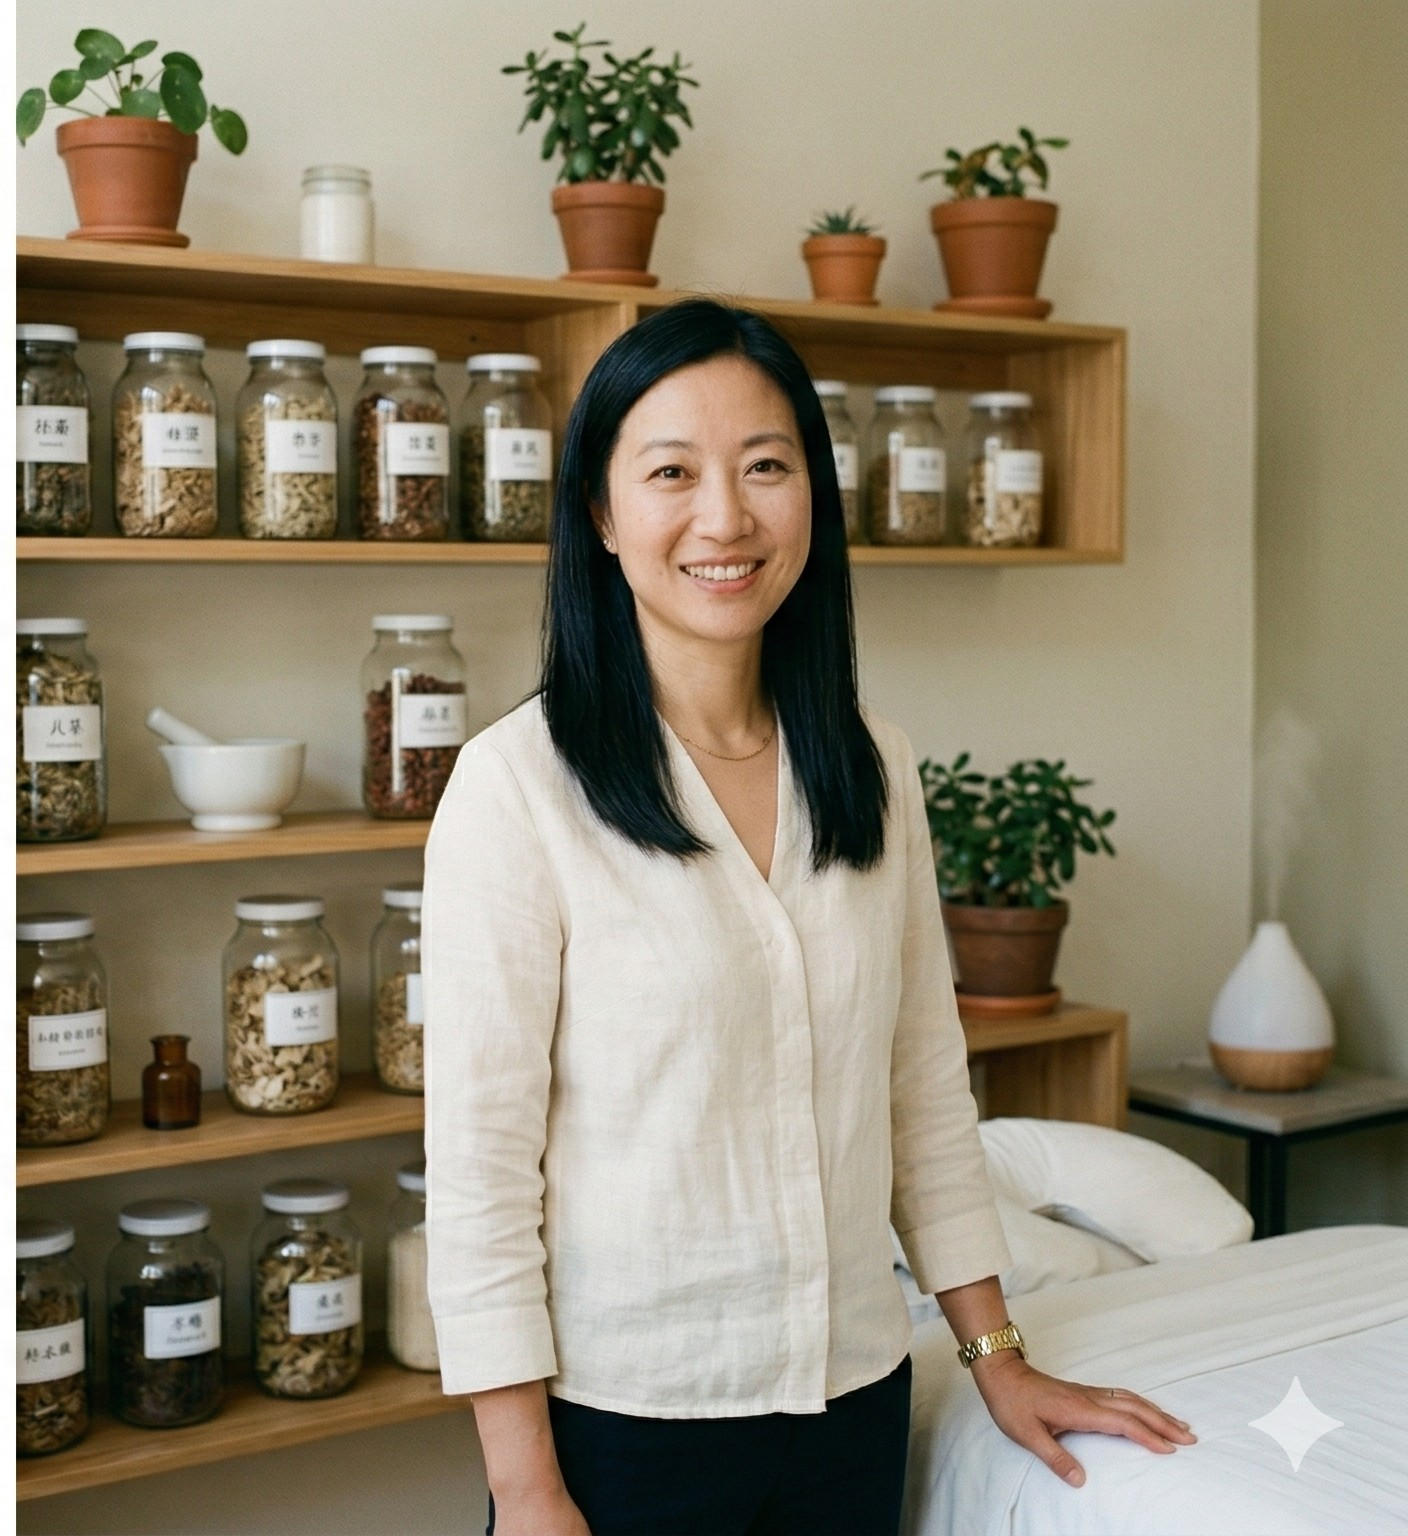
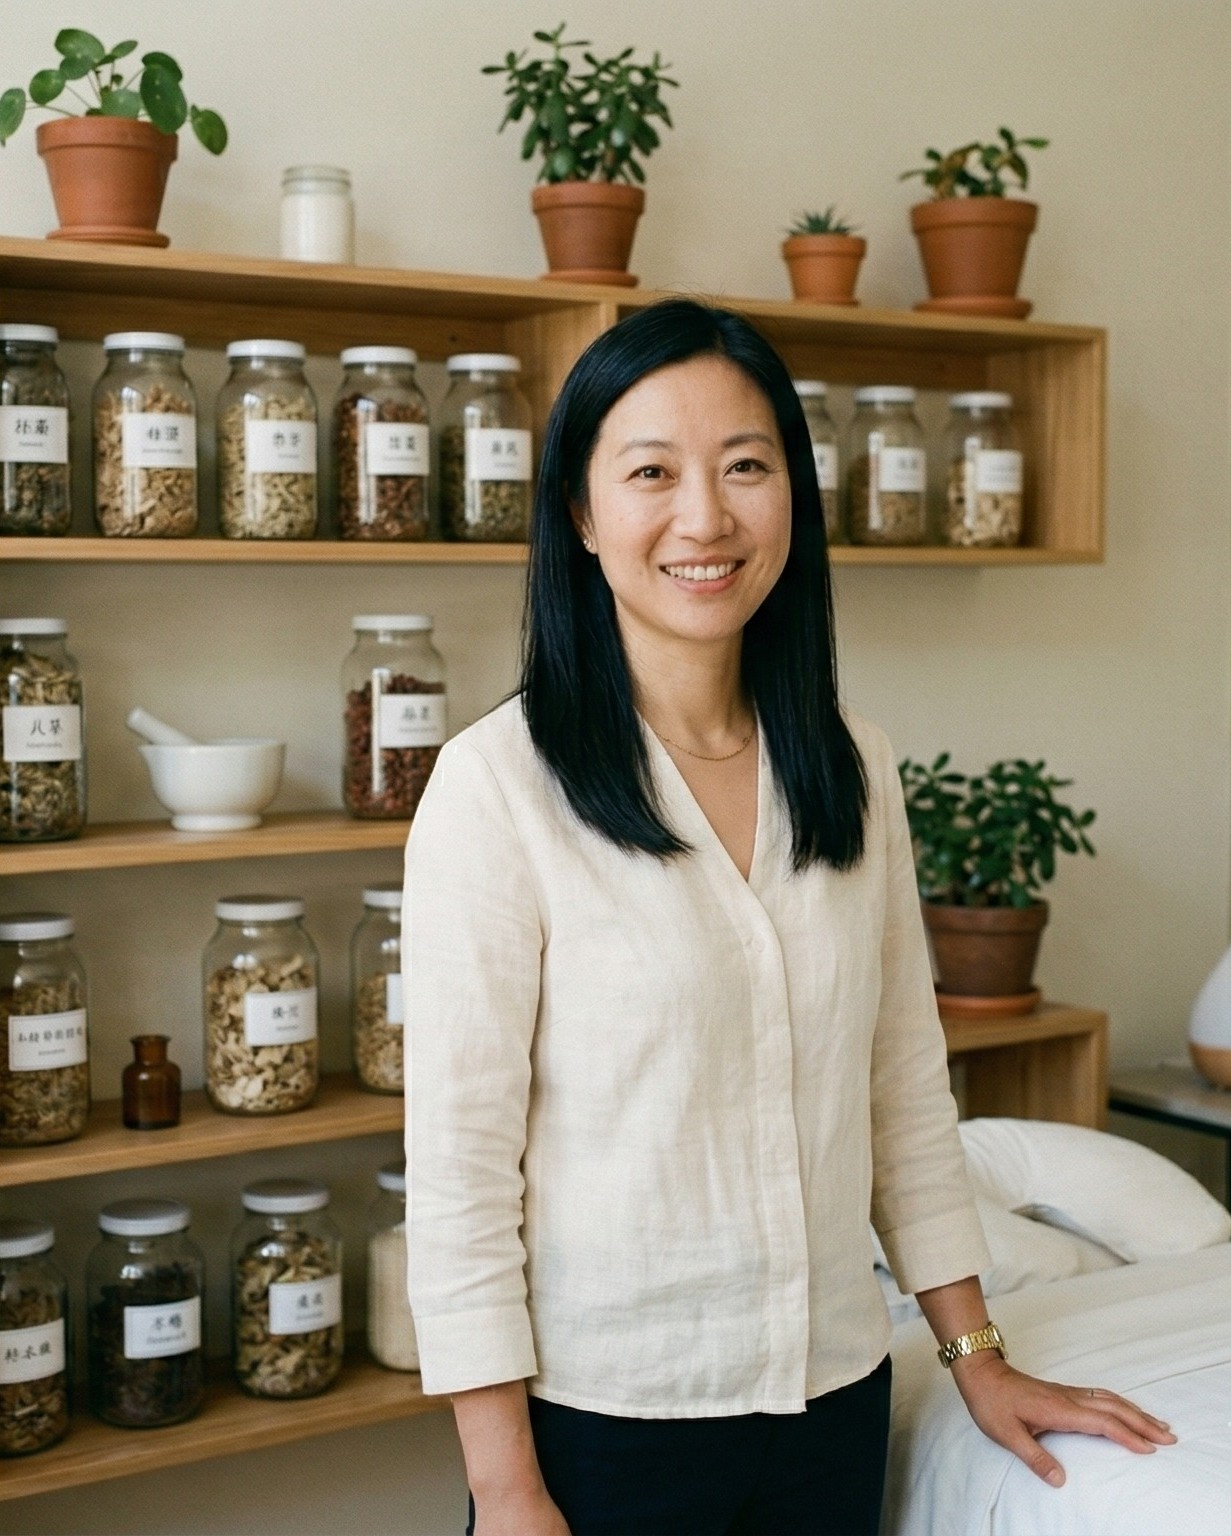
Update hero image to hero-bg.jpg and add new generated images

diff --git a/css/components.css b/css/components.css
@@ -3706,6 +3706,7 @@ a.card--service:hover .card__link {
 .icon-box--left {
   text-align: left;
   display: flex;
+  align-items: center;
   gap: var(--space-lg);
 }
 
@@ -4723,7 +4724,7 @@ a.card--service:hover .card__link {
 }
 
 .comparison__card h3 {
-  font-size: var(--text-md);
+  font-size: var(--text-xl);
   margin-bottom: var(--space-lg);
 }
 
@@ -5197,12 +5198,13 @@ a.card--service:hover .card__link {
    ============================================= */
 .comparison-table {
   width: 100%;
-  border-collapse: collapse;
+  border-collapse: separate;
+  border-spacing: 0;
   background-color: var(--color-surface);
   border-radius: var(--radius-lg);
   overflow: hidden;
   box-shadow: var(--shadow-sm);
-  border: 1px solid var(--color-border-light);
+  border: 2px solid #ccc;
 }
 
 .comparison-table thead th {
@@ -5213,7 +5215,12 @@ a.card--service:hover .card__link {
   font-weight: var(--font-weight-bold);
   color: var(--color-text-heading);
   text-align: center;
-  border-bottom: 2px solid var(--color-border);
+  border-bottom: 2px solid #ccc;
+  border-right: 1px solid var(--color-border-light);
+}
+
+.comparison-table thead th:last-child {
+  border-right: none;
 }
 
 .comparison-table thead th:first-child {
@@ -5225,7 +5232,12 @@ a.card--service:hover .card__link {
   font-size: var(--text-sm);
   color: var(--color-text);
   border-bottom: 1px solid var(--color-border-light);
+  border-right: 1px solid var(--color-border-light);
   text-align: center;
+}
+
+.comparison-table tbody td:last-child {
+  border-right: none;
 }
 
 .comparison-table tbody td:first-child {
@@ -5718,6 +5730,64 @@ a.card--service:hover .card__link {
   background: rgba(255, 255, 255, 0.25);
 }
 
+/* =============================================
+   VIDEO EMBED
+   Responsive 16:9 wrapper for iframe videos.
+   ============================================= */
+.video-embed {
+  position: relative;
+  padding-bottom: 56.25%;
+  height: 0;
+  overflow: hidden;
+  border-radius: var(--radius-lg);
+  box-shadow: var(--shadow-md);
+}
+
+.video-embed iframe {
+  position: absolute;
+  top: 0;
+  left: 0;
+  width: 100%;
+  height: 100%;
+  border: 0;
+  border-radius: var(--radius-lg);
+}
+
+/* =============================================
+   VIDEO SPLIT
+   Optional centered header across both columns,
+   then text left + video right. Stacks on mobile.
+   ============================================= */
+.video-split {
+  display: grid;
+  grid-template-columns: 1fr;
+  gap: var(--space-2xl);
+  align-items: center;
+}
+
+.video-split__header {
+  text-align: center;
+}
+
+.video-split__header h2 {
+  margin-bottom: var(--space-sm);
+}
+
+.video-split__content p {
+  color: var(--color-text-light);
+  line-height: var(--line-height-relaxed);
+}
+
+@media (min-width: 768px) {
+  .video-split {
+    grid-template-columns: 1fr 1fr;
+  }
+
+  .video-split__header {
+    grid-column: 1 / -1;
+  }
+}
+
 /* --- Back to Top --- */
 .back-to-top {
   position: fixed;
@@ -5988,6 +6058,7 @@ a.card--service:hover .card__link {
   font-size: var(--text-sm);
   line-height: var(--line-height-relaxed);
   color: rgba(255, 255, 255, 0.85);
+  margin-bottom: 0;
 }
 
 .cookie-banner__text a {
@@ -6011,6 +6082,30 @@ a.card--service:hover .card__link {
 
 .cookie-banner__accept:hover {
   background: var(--color-primary-dark);
+}
+
+.cookie-banner__decline {
+  background: transparent;
+  color: rgba(255, 255, 255, 0.7);
+  padding: var(--space-sm) var(--space-xl);
+  border-radius: var(--radius-md);
+  font-size: var(--text-sm);
+  font-weight: var(--font-weight-medium);
+  cursor: pointer;
+  border: 1px solid rgba(255, 255, 255, 0.3);
+  white-space: nowrap;
+  transition: color var(--transition-fast), border-color var(--transition-fast);
+}
+
+.cookie-banner__decline:hover {
+  color: var(--color-text-inverse);
+  border-color: rgba(255, 255, 255, 0.6);
+}
+
+.cookie-banner__buttons {
+  display: flex;
+  gap: var(--space-sm);
+  align-items: center;
 }
 
 @media (min-width: 768px) {

diff --git a/index.html b/index.html
@@ -122,7 +122,7 @@
     <section class="hero hero--banner">
       <div class="container hero__inner">
         <div class="hero__image-wrap">
-          <img src="images/hero.jpg" alt="Serene acupuncture treatment room with warm lighting and natural elements" class="hero__image" width="1200" height="400">
+          <img src="images/hero-bg.jpg" alt="Serene acupuncture treatment room with warm lighting and natural elements" class="hero__image" width="1200" height="400">
         </div>
         <div class="hero__content">
           <span class="hero__label">Acupuncture in Birmingham</span>
@@ -185,6 +185,22 @@
     </section>
     <!-- /SECTION: stats -->
 
+    <!-- SECTION: image-grid -->
+    <section class="section reveal">
+      <div class="container grid grid--3">
+        <div class="image-card">
+          <img src="images/grid-1.jpg" alt="Acupuncture needles placed during a treatment session" class="image-card__image" width="800" height="600" loading="lazy">
+        </div>
+        <div class="image-card">
+          <img src="images/grid-2.jpg" alt="Traditional Chinese herbal medicine ingredients" class="image-card__image" width="800" height="600" loading="lazy">
+        </div>
+        <div class="image-card">
+          <img src="images/grid-3.jpg" alt="Cupping therapy equipment in a treatment room" class="image-card__image" width="800" height="600" loading="lazy">
+        </div>
+      </div>
+    </section>
+    <!-- /SECTION: image-grid -->
+
     <!-- SECTION: intro -->
     <section class="section reveal">
       <div class="container intro__inner">
@@ -201,6 +217,16 @@
       </div>
     </section>
     <!-- /SECTION: intro -->
+
+    <!-- SECTION: quote-band -->
+    <section class="info-band info-band--primary">
+      <div class="container text-center" style="max-width: 800px;">
+        <blockquote class="blockquote" style="color: var(--color-text-inverse);">
+          <p class="blockquote__text" style="color: var(--color-text-inverse);">"The body has the ability to heal itself — acupuncture simply helps to unlock that potential."</p>
+        </blockquote>
+      </div>
+    </section>
+    <!-- /SECTION: quote-band -->
 
     <!-- SECTION: services-overview -->
     <section class="section section--alt reveal">
@@ -359,7 +385,7 @@
   <div class="cookie-banner" role="dialog" aria-label="Cookie consent">
     <div class="cookie-banner__inner">
       <p class="cookie-banner__text">We use cookies to improve your experience. See our <a href="cookies-policy.html">cookie policy</a> for details.</p>
-      <button class="cookie-banner__accept">Accept</button>
+      <div class="cookie-banner__buttons"><button class="cookie-banner__accept">Accept</button><button class="cookie-banner__decline">Decline</button></div>
     </div>
   </div>
 

diff --git a/js/main.js b/js/main.js
@@ -228,7 +228,7 @@
             '<div class="form__success">' +
             '<svg xmlns="http://www.w3.org/2000/svg" viewBox="0 0 24 24" fill="none" stroke="currentColor" stroke-width="2" stroke-linecap="round" stroke-linejoin="round"><path d="M22 11.08V12a10 10 0 1 1-5.93-9.14"></path><polyline points="22 4 12 14.01 9 11.01"></polyline></svg>' +
             '<h3>Message Sent</h3>' +
-            '<p>Thank you for getting in touch. I\'ll reply within 24 hours.</p>' +
+            '<p>Thank you for getting in touch. We\'ll get back to you soon.</p>' +
             '</div>';
         })
         .catch(function () {
@@ -386,15 +386,23 @@
      ----------------------------------------- */
   var cookieBanner = document.querySelector('.cookie-banner');
   if (cookieBanner) {
-    var accepted = localStorage.getItem('cookie_consent');
-    if (!accepted) {
+    var consent = localStorage.getItem('cookie_consent');
+    if (!consent) {
       cookieBanner.classList.add('cookie-banner--visible');
     }
 
     var acceptBtn = cookieBanner.querySelector('.cookie-banner__accept');
     if (acceptBtn) {
       acceptBtn.addEventListener('click', function () {
-        localStorage.setItem('cookie_consent', '1');
+        localStorage.setItem('cookie_consent', 'accepted');
+        cookieBanner.classList.remove('cookie-banner--visible');
+      });
+    }
+
+    var declineBtn = cookieBanner.querySelector('.cookie-banner__decline');
+    if (declineBtn) {
+      declineBtn.addEventListener('click', function () {
+        localStorage.setItem('cookie_consent', 'declined');
         cookieBanner.classList.remove('cookie-banner--visible');
       });
     }

diff --git a/about.html b/about.html
@@ -290,7 +290,7 @@
   <div class="cookie-banner" role="dialog" aria-label="Cookie consent">
     <div class="cookie-banner__inner">
       <p class="cookie-banner__text">We use cookies to improve your experience. See our <a href="cookies-policy.html">cookie policy</a> for details.</p>
-      <button class="cookie-banner__accept">Accept</button>
+      <div class="cookie-banner__buttons"><button class="cookie-banner__accept">Accept</button><button class="cookie-banner__decline">Decline</button></div>
     </div>
   </div>
 

diff --git a/contact.html b/contact.html
@@ -269,7 +269,7 @@
   <div class="cookie-banner" role="dialog" aria-label="Cookie consent">
     <div class="cookie-banner__inner">
       <p class="cookie-banner__text">We use cookies to improve your experience. See our <a href="cookies-policy.html">cookie policy</a> for details.</p>
-      <button class="cookie-banner__accept">Accept</button>
+      <div class="cookie-banner__buttons"><button class="cookie-banner__accept">Accept</button><button class="cookie-banner__decline">Decline</button></div>
     </div>
   </div>
 

diff --git a/cookies-policy.html b/cookies-policy.html
@@ -183,7 +183,7 @@
   <div class="cookie-banner" role="dialog" aria-label="Cookie consent">
     <div class="cookie-banner__inner">
       <p class="cookie-banner__text">We use cookies to improve your experience. See our <a href="cookies-policy.html">cookie policy</a> for details.</p>
-      <button class="cookie-banner__accept">Accept</button>
+      <div class="cookie-banner__buttons"><button class="cookie-banner__accept">Accept</button><button class="cookie-banner__decline">Decline</button></div>
     </div>
   </div>
 

diff --git a/faq.html b/faq.html
@@ -258,7 +258,7 @@
   <div class="cookie-banner" role="dialog" aria-label="Cookie consent">
     <div class="cookie-banner__inner">
       <p class="cookie-banner__text">We use cookies to improve your experience. See our <a href="cookies-policy.html">cookie policy</a> for details.</p>
-      <button class="cookie-banner__accept">Accept</button>
+      <div class="cookie-banner__buttons"><button class="cookie-banner__accept">Accept</button><button class="cookie-banner__decline">Decline</button></div>
     </div>
   </div>
 

diff --git a/pricing.html b/pricing.html
@@ -266,7 +266,7 @@
   <div class="cookie-banner" role="dialog" aria-label="Cookie consent">
     <div class="cookie-banner__inner">
       <p class="cookie-banner__text">We use cookies to improve your experience. See our <a href="cookies-policy.html">cookie policy</a> for details.</p>
-      <button class="cookie-banner__accept">Accept</button>
+      <div class="cookie-banner__buttons"><button class="cookie-banner__accept">Accept</button><button class="cookie-banner__decline">Decline</button></div>
     </div>
   </div>
 

diff --git a/privacy.html b/privacy.html
@@ -254,7 +254,7 @@
   <div class="cookie-banner" role="dialog" aria-label="Cookie consent">
     <div class="cookie-banner__inner">
       <p class="cookie-banner__text">We use cookies to improve your experience. See our <a href="cookies-policy.html">cookie policy</a> for details.</p>
-      <button class="cookie-banner__accept">Accept</button>
+      <div class="cookie-banner__buttons"><button class="cookie-banner__accept">Accept</button><button class="cookie-banner__decline">Decline</button></div>
     </div>
   </div>
 

diff --git a/services.html b/services.html
@@ -324,7 +324,7 @@
   <div class="cookie-banner" role="dialog" aria-label="Cookie consent">
     <div class="cookie-banner__inner">
       <p class="cookie-banner__text">We use cookies to improve your experience. See our <a href="cookies-policy.html">cookie policy</a> for details.</p>
-      <button class="cookie-banner__accept">Accept</button>
+      <div class="cookie-banner__buttons"><button class="cookie-banner__accept">Accept</button><button class="cookie-banner__decline">Decline</button></div>
     </div>
   </div>
 
